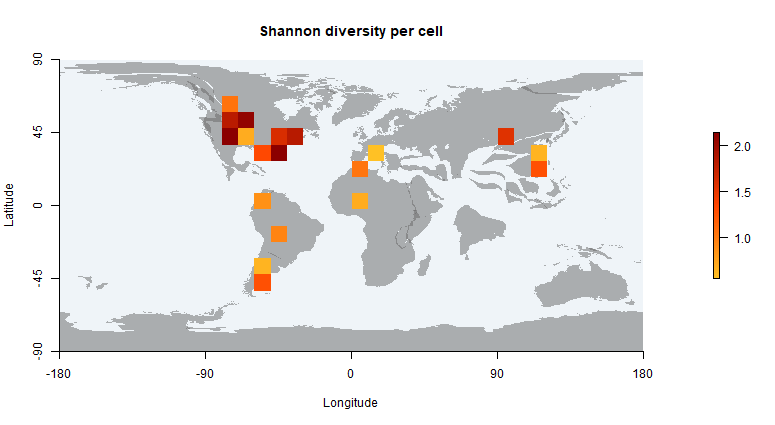
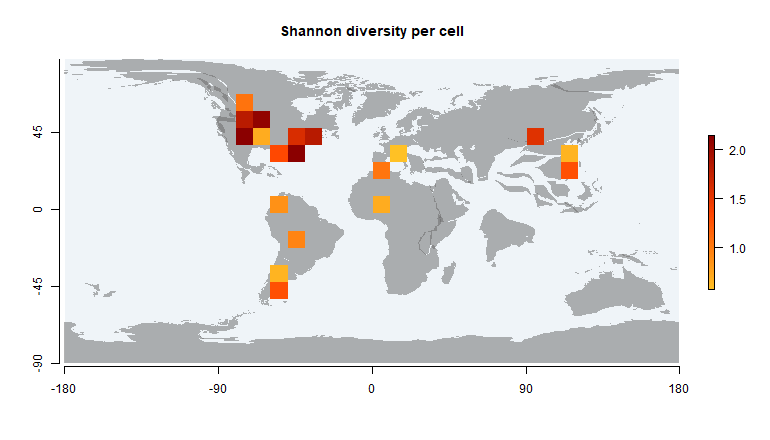
modified README.md and figures

diff --git a/README.md b/README.md
@@ -65,20 +65,27 @@ returns a dataframe with the selected fossil occurrences, downloaded from the [P
 ```
 
 ```coffee
-  occurrence_no         matched_name   matched_rank matched_no     early_interval   late_interval paleolng paleolat geoplate
-1         40165  Peritresius ornatus        species     173397          Thanetian            <NA>   -44.51    40.13      109
-2         40166 Rhetechelys platyops        species     128351          Thanetian            <NA>   -44.51    40.13      109
-3        149344   Trionyx virginiana        species     231917          Thanetian            <NA>   -47.60    38.76      109
-4        205060  Judithemys backmani        species     253836          Paleocene            <NA>   -67.18    57.12      101
-5        205061         Trionychinae unranked clade     276091          Paleocene            <NA>   -67.18    57.12      101
-6        281674 Taphrosphys sulcatus        species     131500 Late Maastrichtian Early Paleocene   -39.82    40.92      109
-        genus          family      order    class   phylum genus_no family_no order_no class_no phylum_no
-1 Peritresius     Chelydridae Testudines Reptilia Chordata    36360     37704    56475    36322     33815
-2 Rhetechelys  Pancheloniidae Testudines Reptilia Chordata   128349    165650    56475    36322     33815
-3        <NA> Pantrionychidae Testudines Reptilia Chordata       NA    361334    56475    36322     33815
-4  Judithemys   Macrobaenidae Testudines Reptilia Chordata    56471     56472    56475    36322     33815
-5        <NA>    Trionychidae Testudines Reptilia Chordata       NA     37674    56475    36322     33815
-6 Taphrosphys   Bothremydidae Testudines Reptilia Chordata    37608     67318    56475    36322     33815
+  occurrence_no         matched_name   matched_rank matched_no     early_interval   late_interval
+1         40165  Peritresius ornatus        species     173397          Thanetian            <NA>
+2         40166 Rhetechelys platyops        species     128351          Thanetian            <NA>
+3        149344   Trionyx virginiana        species     231917          Thanetian            <NA>
+4        205060  Judithemys backmani        species     253836          Paleocene            <NA>
+5        205061         Trionychinae unranked clade     276091          Paleocene            <NA>
+6        281674 Taphrosphys sulcatus        species     131500 Late Maastrichtian Early Paleocene
+  paleolng paleolat geoplate       genus          family      order    class   phylum genus_no
+1   -44.51    40.13      109 Peritresius     Chelydridae Testudines Reptilia Chordata    36360
+2   -44.51    40.13      109 Rhetechelys  Pancheloniidae Testudines Reptilia Chordata   128349
+3   -47.60    38.76      109        <NA> Pantrionychidae Testudines Reptilia Chordata       NA
+4   -67.18    57.12      101  Judithemys   Macrobaenidae Testudines Reptilia Chordata    56471
+5   -67.18    57.12      101        <NA>    Trionychidae Testudines Reptilia Chordata       NA
+6   -39.82    40.92      109 Taphrosphys   Bothremydidae Testudines Reptilia Chordata    37608
+  family_no order_no class_no phylum_no early_age late_age
+1     37704    56475    36322     33815      59.2     56.0
+2    165650    56475    36322     33815      59.2     56.0
+3    361334    56475    36322     33815      59.2     56.0
+4     56472    56475    36322     33815      66.0     56.0
+5     37674    56475    36322     33815      66.0     56.0
+6     67318    56475    36322     33815      70.6     61.7
 
 ```
 
@@ -377,7 +384,7 @@ extent      : -180, 180, -92.0605, 87.9395  (xmin, xmax, ymin, ymax)
 coord. ref. : NA 
 data source : in memory
 names       : layer 
-values      : 1, 15  (min, max)
+values      : 1, 25  (min, max)
 
 ``` 
 
@@ -399,7 +406,7 @@ extent      : -180, 180, -92.0605, 87.9395  (xmin, xmax, ymin, ymax)
 coord. ref. : NA 
 data source : in memory
 names       : layer 
-values      : 0.6365142, 2.059229  (min, max)
+values      : 0.5623351, 2.140366  (min, max)
 ```
 ![plot of chunk map](figure/div_cell.png) 
 
@@ -411,24 +418,24 @@ values      : 0.6365142, 2.059229  (min, max)
 > pm_latrich (shape, data, rank="species", res=10)
 ```
 ```coffee
- lat_min lat_max richn
+   lat_min lat_max richn
 1      -90     -80     0
 2      -80     -70     0
 3      -70     -60     0
 4      -60     -50     0
-5      -50     -40     3
-6      -40     -30     0
+5      -50     -40     4
+6      -40     -30     2
 7      -30     -20     0
-8      -20     -10     0
+8      -20     -10     4
 9      -10       0     0
-10       0      10     3
+10       0      10     5
 11      10      20     1
-12      20      30     6
-13      30      40    17
-14      40      50    17
+12      20      30     8
+13      30      40    18
+14      40      50    32
 15      50      60    13
-16      60      70     0
-17      70      80     0
+16      60      70     3
+17      70      80     1
 18      80      90     0
 ```
 
@@ -441,8 +448,8 @@ calculates the Shannon diversity along the latitudinal gradient based on the ind
 
 ```coffee
 > occ_df <- pm_occ (data)
-> pm_latdiv (occ_df, shape, fun=mean)
-> pm_latdiv (occ_df, shape, fun=max)
+> pm_latdiv (occ_df, shape, fun=mean, magn=10)
+> pm_latdiv (occ_df, shape, fun=max, magn=10)
 
 ```
 
@@ -452,18 +459,18 @@ calculates the Shannon diversity along the latitudinal gradient based on the ind
 2     -80    -70 0.0000000
 3     -70    -60 0.0000000
 4     -60    -50 0.0000000
-5     -50    -40 0.6931472
+5     -50    -40 1.0549202
 6     -40    -30 0.0000000
 7     -30    -20 0.0000000
-8     -20    -10 0.0000000
+8     -20    -10 0.6365142
 9     -10      0 0.0000000
-10      0     10 0.6931472
+10      0     10 1.0986123
 11     10     20 0.0000000
 12     20     30 0.6931472
-13     30     40 1.5607104
-14     40     50 1.3321790
-15     50     60 1.0986123
-16     60     70 0.0000000
+13     30     40 1.3862944
+14     40     50 1.7677615
+15     50     60 1.2730283
+16     60     70 0.6931472
 17     70     80 0.0000000
 18     80     90 0.0000000
 ``` 
